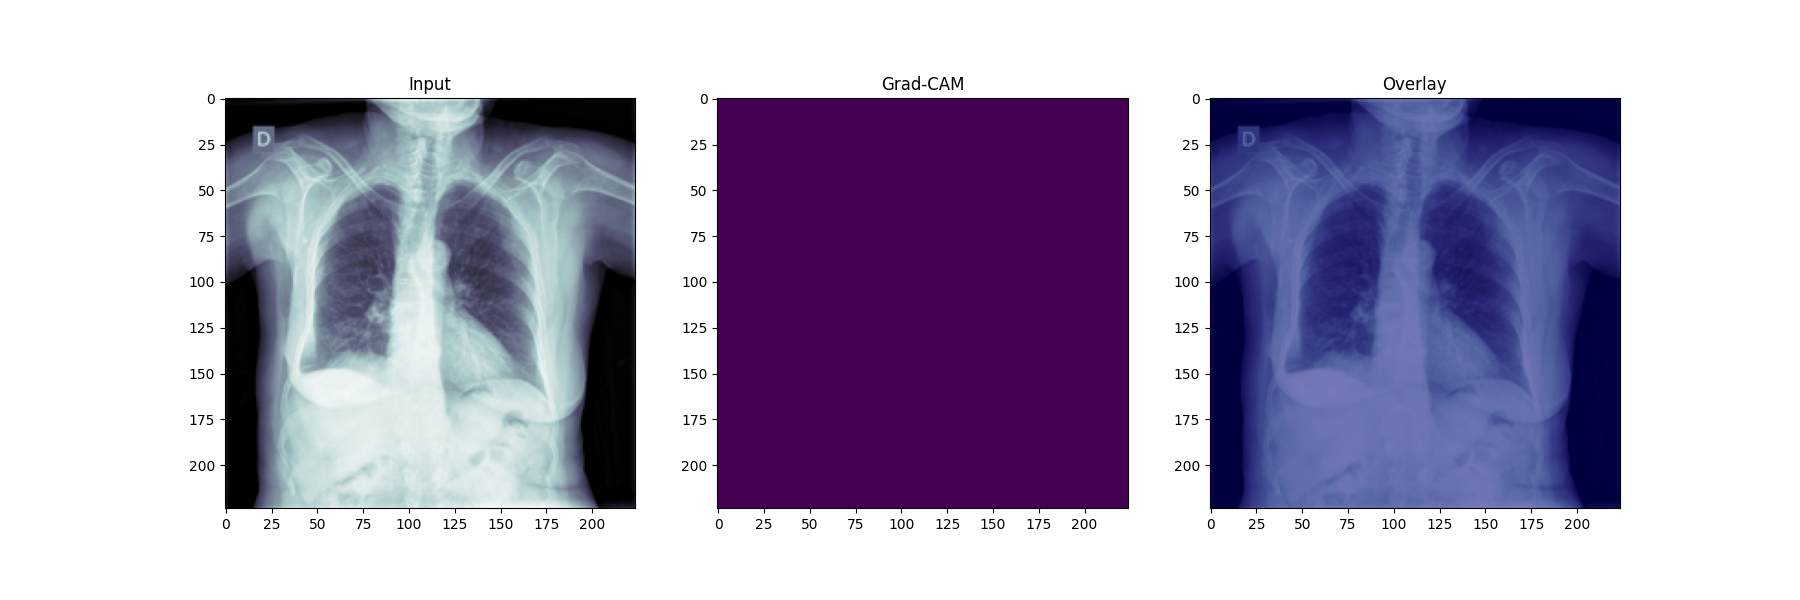
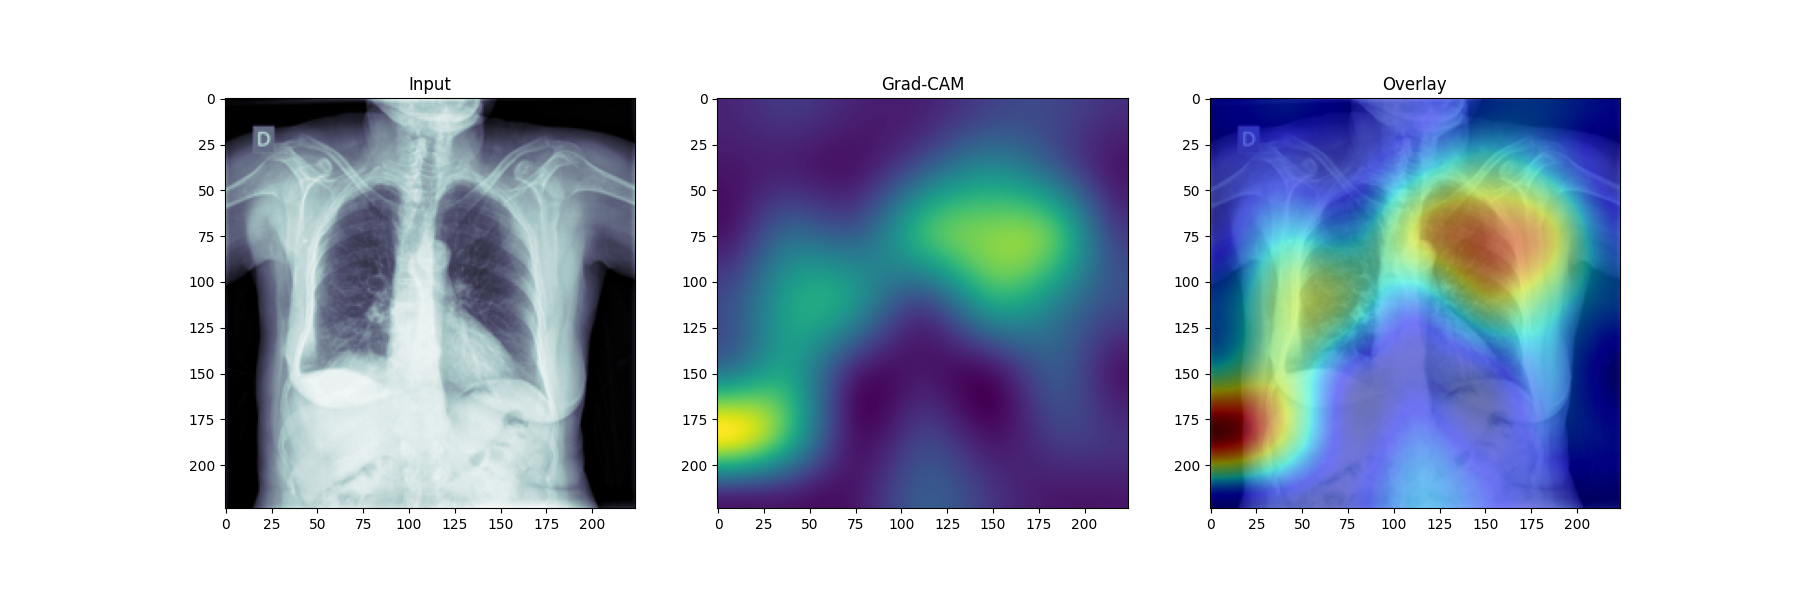
even more grad cams

Changed region(s): [[0.3733, 0.15, 0.9022, 0.87]]

diff --git a/kaggle/classification/evaluate.py b/kaggle/classification/evaluate.py
@@ -107,7 +107,7 @@ def create_gradCAMs(args):
                             layer_idx = n_layers - 1,
                             filter_indices = 0,
                             seed_input = img,
-                            penultimate_layer_idx = n_layers - 2);
+                            penultimate_layer_idx = n_layers - 4);
         
         # saving visualizations
         visualizations.append(visualization);
